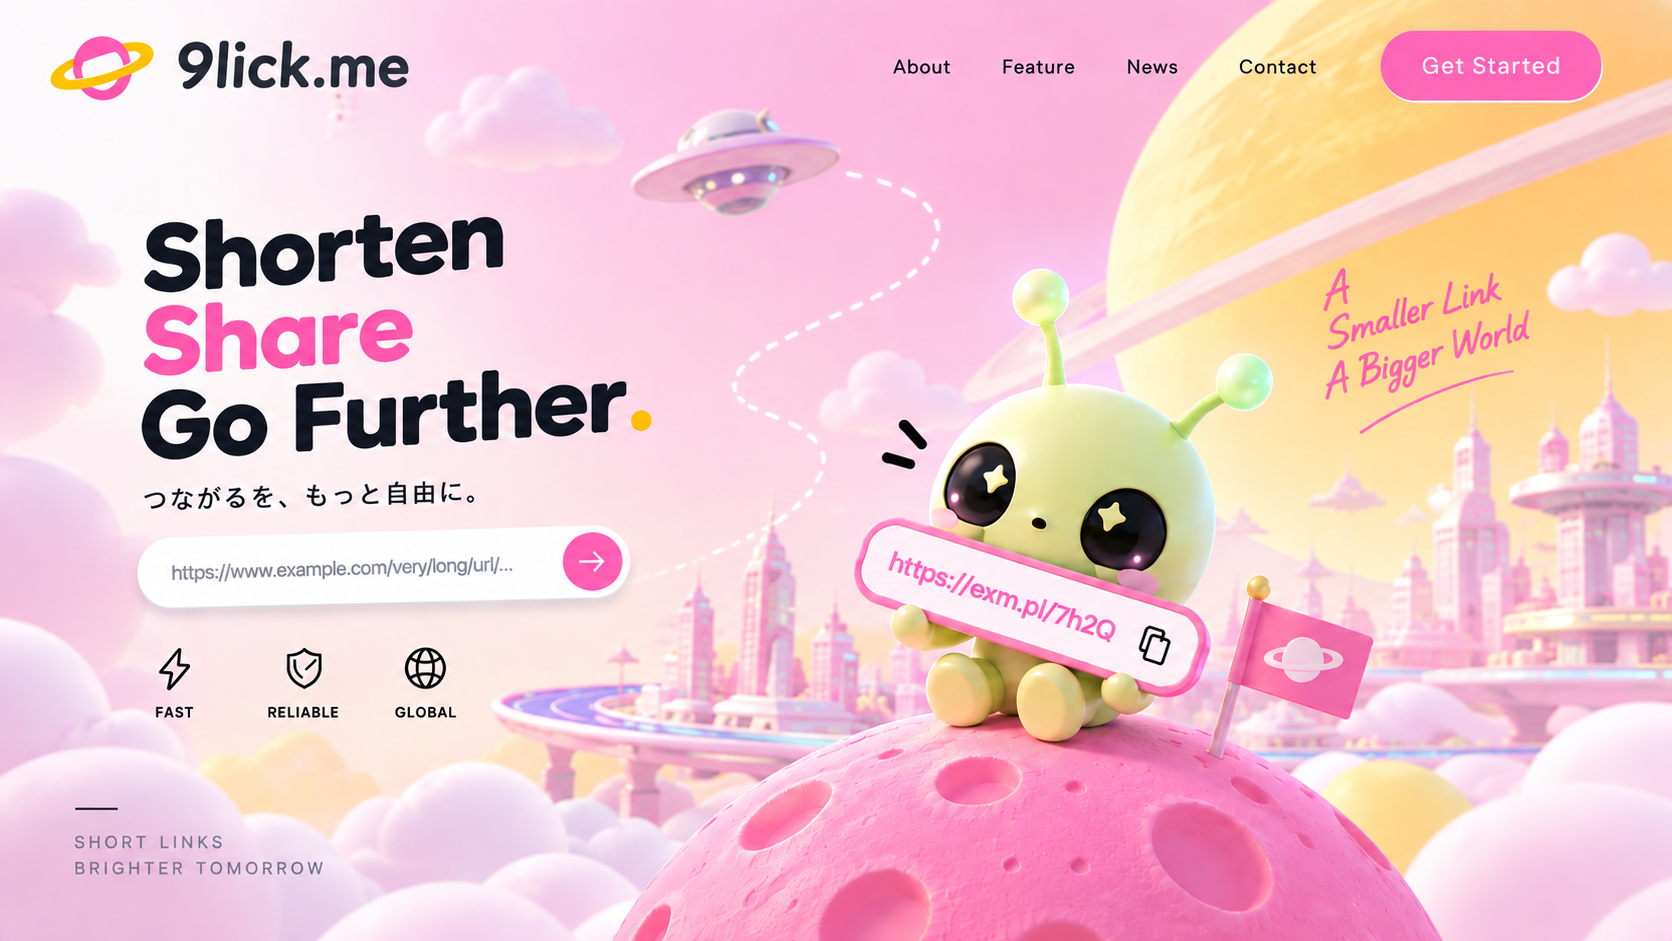
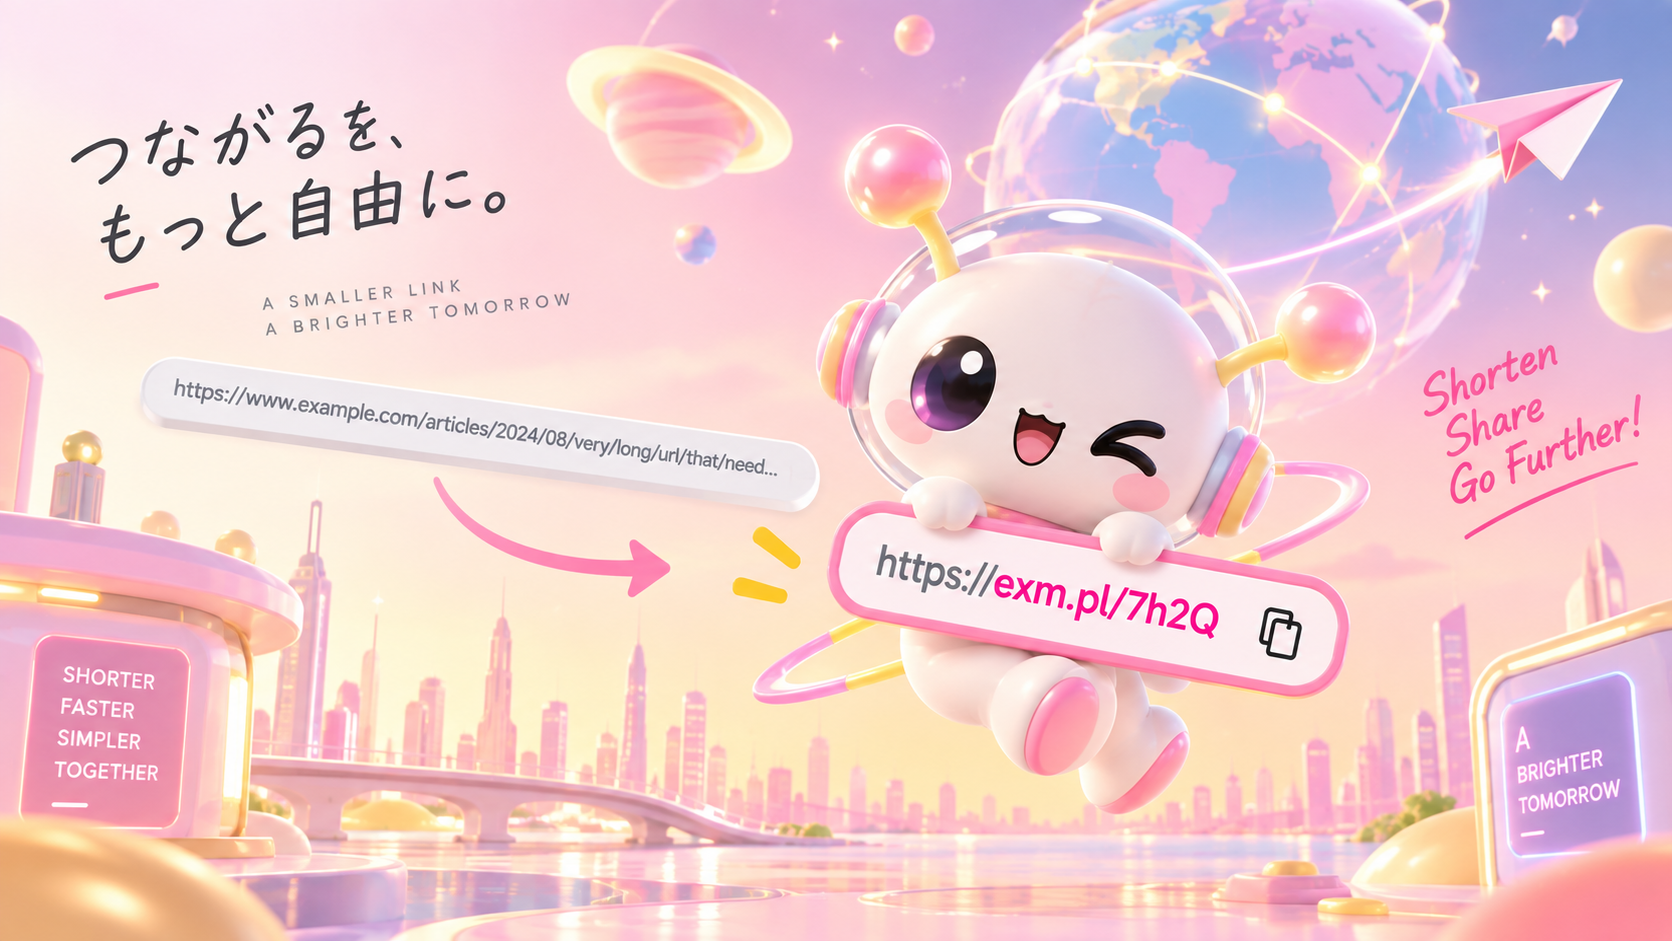
キービジュアルを宇宙を飛ぶイラストに戻す
ナビゲーションや入力欄を含まない純粋なキービジュアルのため、
サイト側のヘッダーやデモ入力欄と重複しない。寸法は 1672x941 で
変わらず、レイアウトの変更は不要。代替テキストを新しい絵に合わせて
書き直す。

diff --git a/index.html b/index.html
@@ -444,7 +444,7 @@ select.in{appearance:none}
     <div class="wrap">
       <figure class="kv">
         <img src="hero.png" width="1672" height="941" fetchpriority="high"
-             alt="ピンクの月に座ったキャラクターが、短縮されたURL「https://exm.pl/7h2Q」のバーを抱えているイラスト。背景は宇宙に浮かぶ街並みとUFO。「Shorten Share Go Further.」「つながるを、もっと自由に。」のコピーが添えられている。">
+             alt="ヘルメットをかぶったキャラクターが、短縮されたURL「https://exm.pl/7h2Q」のバーを抱えて宇宙を飛んでいるイラスト。背景には地球と惑星、ピンク色の街並み。長いURLから短いURLへ矢印が伸びている。左上に「つながるを、もっと自由に。」、右に「Shorten Share Go Further!」のコピー。">
         <figcaption>Key visual</figcaption>
       </figure>
 
